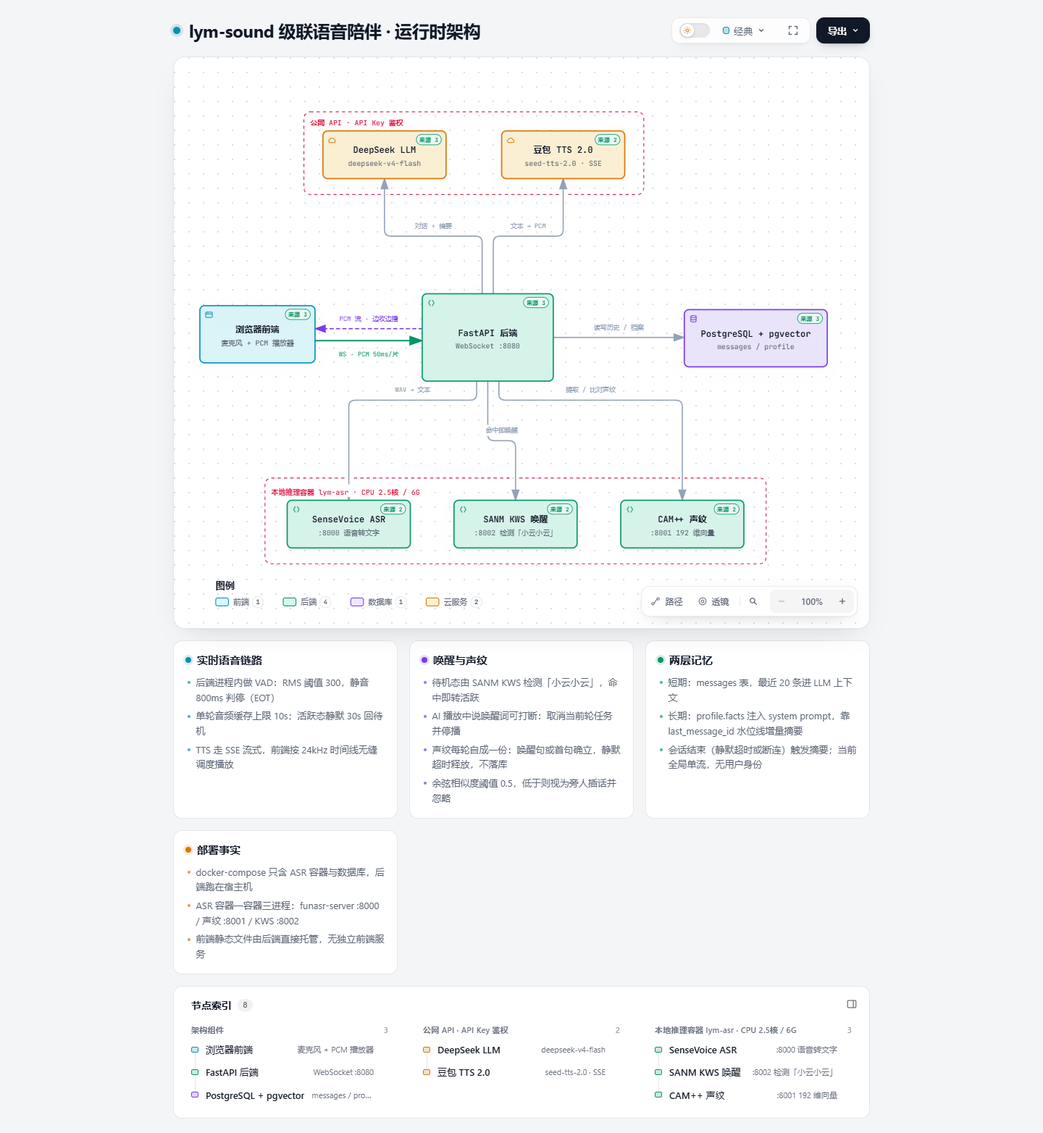
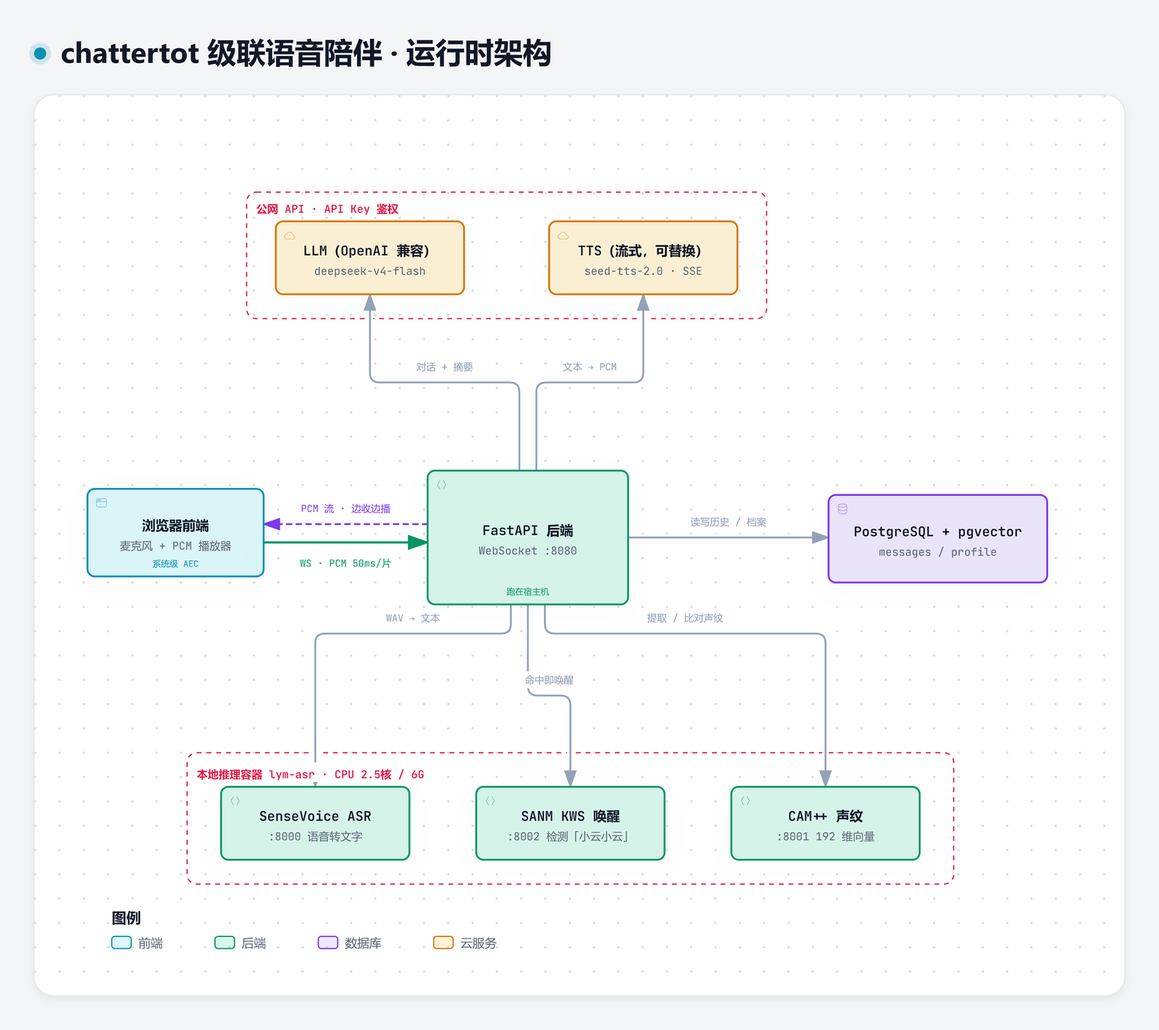
docs: regenerate architecture diagram for the rename
Regenerated from the source JSON against this repository's first commit:
- Title now reads "chattertot", not the old project name
- Cloud component labels reflect that both are replaceable:
  "LLM (OpenAI-compatible)" and "TTS (streaming, swappable)"
- Source-evidence links now point at this repo, so "click a node to see the
  source" resolves instead of 404ing

All four archify gates pass (validate / deliver / check / browser-check).

diff --git a/docs/architecture/chattertot-architecture.html b/docs/architecture/chattertot-architecture.html
@@ -4982,7 +4982,7 @@ OTHER DEALINGS IN THE FONT SOFTWARE.
       </div>
     </div>
 
-    <script id="archify-source-evidence-data" type="application/json">{"schemaVersion":1,"verified":true,"repository":{"url":"https://github.com/wind4001/chattertot","revision":"af71dbb8778e04d860a536311a2e3ecf7a58cd83","shortRevision":"af71dbb","label":"wind4001/chattertot","href":"https://github.com/wind4001/chattertot/tree/af71dbb8778e04d860a536311a2e3ecf7a58cd83"},"referenceCount":20,"nodes":{"browser":[{"path":"cascade/backend/static/app.js","line":5,"endLine":57,"label":"PcmPlayer","href":"https://github.com/wind4001/chattertot/blob/af71dbb8778e04d860a536311a2e3ecf7a58cd83/cascade/backend/static/app.js#L5-L57"},{"path":"cascade/backend/static/app.js","line":123,"endLine":132,"label":"采音 + AEC","href":"https://github.com/wind4001/chattertot/blob/af71dbb8778e04d860a536311a2e3ecf7a58cd83/cascade/backend/static/app.js#L123-L132"},{"path":"cascade/backend/static/app.js","line":75,"label":"WS 连接","href":"https://github.com/wind4001/chattertot/blob/af71dbb8778e04d860a536311a2e3ecf7a58cd83/cascade/backend/static/app.js#L75"}],"backend":[{"path":"cascade/backend/app.py","line":173,"endLine":176,"label":"WS 端点","href":"https://github.com/wind4001/chattertot/blob/af71dbb8778e04d860a536311a2e3ecf7a58cd83/cascade/backend/app.py#L173-L176"},{"path":"cascade/backend/app.py","line":407,"endLine":433,"label":"VAD / 判停主循环","href":"https://github.com/wind4001/chattertot/blob/af71dbb8778e04d860a536311a2e3ecf7a58cd83/cascade/backend/app.py#L407-L433"},{"path":"cascade/backend/app.py","line":449,"label":"监听端口","href":"https://github.com/wind4001/chattertot/blob/af71dbb8778e04d860a536311a2e3ecf7a58cd83/cascade/backend/app.py#L449"}],"pg":[{"path":"cascade/db/init.sql","line":9,"label":"messages 表","href":"https://github.com/wind4001/chattertot/blob/af71dbb8778e04d860a536311a2e3ecf7a58cd83/cascade/db/init.sql#L9"},{"path":"cascade/db/init.sql","line":24,"label":"profile 表","href":"https://github.com/wind4001/chattertot/blob/af71dbb8778e04d860a536311a2e3ecf7a58cd83/cascade/db/init.sql#L24"},{"path":"cascade/backend/db.py","line":9,"label":"连接串","href":"https://github.com/wind4001/chattertot/blob/af71dbb8778e04d860a536311a2e3ecf7a58cd83/cascade/backend/db.py#L9"}],"llm":[{"path":"cascade/backend/llm.py","line":9,"endLine":11,"label":"配置","href":"https://github.com/wind4001/chattertot/blob/af71dbb8778e04d860a536311a2e3ecf7a58cd83/cascade/backend/llm.py#L9-L11"},{"path":"cascade/backend/llm.py","line":23,"label":"对话","href":"https://github.com/wind4001/chattertot/blob/af71dbb8778e04d860a536311a2e3ecf7a58cd83/cascade/backend/llm.py#L23"},{"path":"cascade/backend/llm.py","line":71,"label":"记忆摘要","href":"https://github.com/wind4001/chattertot/blob/af71dbb8778e04d860a536311a2e3ecf7a58cd83/cascade/backend/llm.py#L71"}],"tts":[{"path":"cascade/backend/tts.py","line":13,"label":"SSE 端点","href":"https://github.com/wind4001/chattertot/blob/af71dbb8778e04d860a536311a2e3ecf7a58cd83/cascade/backend/tts.py#L13"},{"path":"cascade/backend/tts.py","line":63,"label":"流式合成","href":"https://github.com/wind4001/chattertot/blob/af71dbb8778e04d860a536311a2e3ecf7a58cd83/cascade/backend/tts.py#L63"}],"asr":[{"path":"cascade/backend/app.py","line":24,"label":"调用地址","href":"https://github.com/wind4001/chattertot/blob/af71dbb8778e04d860a536311a2e3ecf7a58cd83/cascade/backend/app.py#L24"},{"path":"cascade/asr/start.sh","line":6,"label":"funasr-server","href":"https://github.com/wind4001/chattertot/blob/af71dbb8778e04d860a536311a2e3ecf7a58cd83/cascade/asr/start.sh#L6"}],"kws":[{"path":"cascade/backend/app.py","line":80,"label":"调用地址","href":"https://github.com/wind4001/chattertot/blob/af71dbb8778e04d860a536311a2e3ecf7a58cd83/cascade/backend/app.py#L80"},{"path":"cascade/asr/kws_api.py","line":11,"endLine":12,"label":"模型与关键词","href":"https://github.com/wind4001/chattertot/blob/af71dbb8778e04d860a536311a2e3ecf7a58cd83/cascade/asr/kws_api.py#L11-L12"}],"speaker":[{"path":"cascade/backend/app.py","line":50,"label":"调用地址","href":"https://github.com/wind4001/chattertot/blob/af71dbb8778e04d860a536311a2e3ecf7a58cd83/cascade/backend/app.py#L50"},{"path":"cascade/asr/speaker_api.py","line":8,"label":"CAM++ 模型","href":"https://github.com/wind4001/chattertot/blob/af71dbb8778e04d860a536311a2e3ecf7a58cd83/cascade/asr/speaker_api.py#L8"}]}}</script>
+    <script id="archify-source-evidence-data" type="application/json">{"schemaVersion":1,"verified":true,"repository":{"url":"https://github.com/wind4001/chattertot","revision":"094c6af2946647fc590a70a808ababc00eedf09b","shortRevision":"094c6af","label":"wind4001/chattertot","href":"https://github.com/wind4001/chattertot/tree/094c6af2946647fc590a70a808ababc00eedf09b"},"referenceCount":20,"nodes":{"browser":[{"path":"cascade/backend/static/app.js","line":5,"endLine":57,"label":"PcmPlayer","href":"https://github.com/wind4001/chattertot/blob/094c6af2946647fc590a70a808ababc00eedf09b/cascade/backend/static/app.js#L5-L57"},{"path":"cascade/backend/static/app.js","line":123,"endLine":132,"label":"采音 + AEC","href":"https://github.com/wind4001/chattertot/blob/094c6af2946647fc590a70a808ababc00eedf09b/cascade/backend/static/app.js#L123-L132"},{"path":"cascade/backend/static/app.js","line":75,"label":"WS 连接","href":"https://github.com/wind4001/chattertot/blob/094c6af2946647fc590a70a808ababc00eedf09b/cascade/backend/static/app.js#L75"}],"backend":[{"path":"cascade/backend/app.py","line":173,"endLine":176,"label":"WS 端点","href":"https://github.com/wind4001/chattertot/blob/094c6af2946647fc590a70a808ababc00eedf09b/cascade/backend/app.py#L173-L176"},{"path":"cascade/backend/app.py","line":407,"endLine":433,"label":"VAD / 判停主循环","href":"https://github.com/wind4001/chattertot/blob/094c6af2946647fc590a70a808ababc00eedf09b/cascade/backend/app.py#L407-L433"},{"path":"cascade/backend/app.py","line":449,"label":"监听端口","href":"https://github.com/wind4001/chattertot/blob/094c6af2946647fc590a70a808ababc00eedf09b/cascade/backend/app.py#L449"}],"pg":[{"path":"cascade/db/init.sql","line":9,"label":"messages 表","href":"https://github.com/wind4001/chattertot/blob/094c6af2946647fc590a70a808ababc00eedf09b/cascade/db/init.sql#L9"},{"path":"cascade/db/init.sql","line":24,"label":"profile 表","href":"https://github.com/wind4001/chattertot/blob/094c6af2946647fc590a70a808ababc00eedf09b/cascade/db/init.sql#L24"},{"path":"cascade/backend/db.py","line":9,"label":"连接串","href":"https://github.com/wind4001/chattertot/blob/094c6af2946647fc590a70a808ababc00eedf09b/cascade/backend/db.py#L9"}],"llm":[{"path":"cascade/backend/llm.py","line":9,"endLine":11,"label":"配置","href":"https://github.com/wind4001/chattertot/blob/094c6af2946647fc590a70a808ababc00eedf09b/cascade/backend/llm.py#L9-L11"},{"path":"cascade/backend/llm.py","line":23,"label":"对话","href":"https://github.com/wind4001/chattertot/blob/094c6af2946647fc590a70a808ababc00eedf09b/cascade/backend/llm.py#L23"},{"path":"cascade/backend/llm.py","line":71,"label":"记忆摘要","href":"https://github.com/wind4001/chattertot/blob/094c6af2946647fc590a70a808ababc00eedf09b/cascade/backend/llm.py#L71"}],"tts":[{"path":"cascade/backend/tts.py","line":13,"label":"SSE 端点","href":"https://github.com/wind4001/chattertot/blob/094c6af2946647fc590a70a808ababc00eedf09b/cascade/backend/tts.py#L13"},{"path":"cascade/backend/tts.py","line":63,"label":"流式合成","href":"https://github.com/wind4001/chattertot/blob/094c6af2946647fc590a70a808ababc00eedf09b/cascade/backend/tts.py#L63"}],"asr":[{"path":"cascade/backend/app.py","line":24,"label":"调用地址","href":"https://github.com/wind4001/chattertot/blob/094c6af2946647fc590a70a808ababc00eedf09b/cascade/backend/app.py#L24"},{"path":"cascade/asr/start.sh","line":6,"label":"funasr-server","href":"https://github.com/wind4001/chattertot/blob/094c6af2946647fc590a70a808ababc00eedf09b/cascade/asr/start.sh#L6"}],"kws":[{"path":"cascade/backend/app.py","line":80,"label":"调用地址","href":"https://github.com/wind4001/chattertot/blob/094c6af2946647fc590a70a808ababc00eedf09b/cascade/backend/app.py#L80"},{"path":"cascade/asr/kws_api.py","line":11,"endLine":12,"label":"模型与关键词","href":"https://github.com/wind4001/chattertot/blob/094c6af2946647fc590a70a808ababc00eedf09b/cascade/asr/kws_api.py#L11-L12"}],"speaker":[{"path":"cascade/backend/app.py","line":50,"label":"调用地址","href":"https://github.com/wind4001/chattertot/blob/094c6af2946647fc590a70a808ababc00eedf09b/cascade/backend/app.py#L50"},{"path":"cascade/asr/speaker_api.py","line":8,"label":"CAM++ 模型","href":"https://github.com/wind4001/chattertot/blob/094c6af2946647fc590a70a808ababc00eedf09b/cascade/asr/speaker_api.py#L8"}]}}</script>
     <script id="archify-i18n-data" type="application/json">{"locale":"zh-CN","messages":{"viewer.kind.frontend":"前端","viewer.kind.backend":"后端","viewer.kind.database":"数据库","viewer.kind.cloud":"云服务","viewer.kind.security":"安全","viewer.kind.messagebus":"消息总线","viewer.kind.external":"外部系统","viewer.kind.neutral":"中性","viewer.kind.node":"节点","viewer.kind.start":"开始","viewer.kind.active":"活动","viewer.kind.waiting":"等待","viewer.kind.decision":"决策","viewer.kind.success":"成功","viewer.kind.failure":"失败","viewer.toolbar.actions":"图表操作","viewer.theme.toggle.title":"切换主题（T）","viewer.theme.toggle":"切换颜色主题","viewer.theme.dark":"深色","viewer.theme.light":"浅色","viewer.preset.choose.title":"选择视觉风格（S 循环切换）","viewer.preset.choose":"选择视觉风格","viewer.preset.style":"风格","viewer.preset.menu":"视觉风格","viewer.preset.identity":"视觉表达","viewer.preset.cycles":"循环切换","viewer.preset.classic":"经典","viewer.preset.classic.short":"经典","viewer.preset.classic.hint":"稳定的技术默认风格","viewer.preset.flow":"信号流","viewer.preset.flow.short":"流动","viewer.preset.flow.hint":"突出动态流向","viewer.preset.blueprint":"蓝图","viewer.preset.blueprint.hint":"工程评审","viewer.preset.editorial":"编辑风格","viewer.preset.editorial.hint":"适合发布与上线说明","viewer.preset.badge.signalFlow":"信号流","viewer.preset.badge.blueprint":"蓝图 / 修订 01","viewer.preset.badge.editorial":"编辑风格 / 现场笔记","viewer.preset.badge.editorialPlate":"ARCHIFY / 图版 04","viewer.preset.current":"当前视觉风格：{style}。选择视觉风格","viewer.motion.live":"动态","viewer.motion.still":"静态","viewer.motion.pause":"暂停动效","viewer.motion.resume":"恢复动效","viewer.motion.reduced":"已根据减少动态效果偏好暂停动效","viewer.motion.hidden":"页面不可见时已暂停动效","viewer.motion.yielding":"暂停动效；当前让位于{owner}","viewer.motion.yielding.title":"动态预览已启用 · 正在让位于{owner}","viewer.owner.route":"路径探测","viewer.owner.lens":"语义透镜","viewer.owner.relationship":"关系预览","viewer.owner.intent":"意图追踪","viewer.owner.focus":"语义聚焦","viewer.owner.legend":"图例预览","viewer.owner.reader":"读者交互","viewer.present.enter":"进入演示模式","viewer.present.enter.title":"演示模式（F）","viewer.present.exit":"退出演示模式","viewer.present.exit.title":"退出演示模式（F 或 Escape）","viewer.present.present":"演示","viewer.present.exit.label":"退出","viewer.export.button":"导出","viewer.export.button.title":"导出图表（E）","viewer.export.diagram":"导出图表","viewer.export.menu":"导出","viewer.export.subtitle":"便携、整洁的输出","viewer.export.share":"分享","viewer.export.shareCard":"分享卡片","viewer.export.routeShareCard":"路径分享卡片","viewer.export.reachShareCard":"可达范围分享卡片","viewer.export.copyDiagram":"复制图表","viewer.export.clipboardPng":"复制 PNG 到剪贴板","viewer.export.raster":"位图","viewer.export.image":"图像","viewer.export.lossless":"无损图像","viewer.export.compact":"紧凑图像","viewer.export.modern":"现代图像格式","viewer.export.vectorMotion":"矢量与动效","viewer.export.vectorMotion.heading":"矢量与动效","viewer.export.editable":"可编辑矢量图","viewer.export.svg.auto":"SVG · 自动","viewer.export.svg.auto.hint":"匹配宿主主题","viewer.export.svg.light":"SVG · 浅色","viewer.export.svg.light.hint":"始终浅色","viewer.export.svg.dark":"SVG · 深色","viewer.export.svg.dark.hint":"始终深色","viewer.export.motion6s":"6 秒动效","viewer.export.unsupported":"当前浏览器不支持","viewer.export.clipboardUnsupported":"当前浏览器不支持写入图片剪贴板","viewer.export.clipboardUnsupported.short":"此浏览器不支持写入图片剪贴板。","viewer.export.motionUnavailable":"当前浏览器无法录制动效","viewer.export.webmUnavailable":"当前浏览器不支持 WebM","viewer.export.failed":"导出失败：{message}","viewer.export.unknownVariant":"未知的分享卡片类型：{variant}","viewer.export.routeRequired":"请先追踪路径，再导出路径分享卡片","viewer.export.reachRequired":"请先追踪编写可达范围，再导出可达范围分享卡片","viewer.export.unknown":"未知错误","viewer.export.routeFailed":"路径分享卡片导出失败：{message}","viewer.export.reachFailed":"可达范围分享卡片导出失败：{message}","viewer.export.copyFailed":"复制失败：{message}","viewer.export.copiedPng":"已将 PNG 复制到剪贴板","viewer.export.downloadedRoute":"已下载路径分享卡片","viewer.export.downloadedReach":"已下载可达范围分享卡片","viewer.export.downloadedWebm":"已下载 WebM","viewer.export.recording":"正在录制 6 秒动效…","viewer.export.card.routeSummary.one":"路径：{source} → {target} · {count} 步","viewer.export.card.routeSummary.other":"路径：{source} → {target} · {count} 步","viewer.export.card.reachSummary":"从{origin}开始的编写{direction} · {nodes} · {links} · 最深 {hops}","viewer.export.card.node.one":"{count} 个节点","viewer.export.card.node.other":"{count} 个节点","viewer.export.card.link.one":"{count} 条连接","viewer.export.card.link.other":"{count} 条连接","viewer.export.card.hop.one":"{count} 跳","viewer.export.card.hop.other":"{count} 跳","viewer.export.card.routeBadge":"ARCHIFY · 路径 · {hops}","viewer.export.card.reachBadge":"ARCHIFY · {direction}可达范围","viewer.export.direction.upstream":"上游","viewer.export.direction.downstream":"下游","viewer.export.error.canvasUnavailable":"无法为{label}使用画布","viewer.export.error.contextUnavailable":"无法为{label}创建二维画布上下文","viewer.export.error.toBlobUnavailable":"{label}无法使用 canvas.toBlob","viewer.export.error.toBlobNull":"{label}的 canvas.toBlob 未返回数据","viewer.export.error.variantsCombined":"无法同时组合多种分享卡片类型","viewer.export.error.viewerState":"分享卡片导出无法移除临时 Viewer 状态","viewer.export.error.routeState":"路径卡片导出无法安全保留已解析路径","viewer.export.error.reachState":"可达范围卡片导出无法安全保留编写的可达范围","viewer.export.error.webmRequirements":"WebM 动效导出需要追踪动画及浏览器 MediaRecorder 支持","viewer.export.error.mediaRecorder":"MediaRecorder 录制失败","viewer.export.error.emptyWebm":"MediaRecorder 生成了空的 WebM","viewer.export.error.webmBackground":"无法为 WebM 导出加载 SVG 背景","viewer.guide.title":"探索此系统","viewer.focus.selectedNodes":"已选择 {count} 个节点","viewer.guide.eyebrow":"图表指南","viewer.guide.close":"关闭图表指南","viewer.guide.inspecting":"正在检查已编译语义","viewer.guide.actions":"图表探索操作","viewer.guide.find":"查找任意节点","viewer.guide.find.hint":"搜索标签、职责、类型和稳定 ID。","viewer.guide.route":"追踪路径","viewer.guide.route.aria":"追踪有向路径","viewer.guide.route.hint":"查看两个语义节点如何按编写方向连接。","viewer.guide.map":"查看完整系统","viewer.guide.map.hint":"打开带实时视口和稳定节点的语义雷达。","viewer.guide.lens":"比较语义类型","viewer.guide.lens.hint":"统计角色、显示流量并比较直接编写的连接。","viewer.guide.present":"进入演示模式","viewer.guide.present.hint":"让实时图表占满视口，同时不改变导出。","viewer.guide.shortcuts":"其他键盘快捷键","viewer.guide.shortcut.export":"导出","viewer.guide.shortcut.theme":"主题","viewer.guide.shortcut.style":"风格","viewer.guide.shortcut.reset":"重置","viewer.guide.shortcut.zoomIn":"放大","viewer.guide.shortcut.zoomOut":"缩小","viewer.guide.shortcut.close":"关闭","viewer.guide.facts":"{nodes} · {relationships}","viewer.guide.fact.node.one":"{count} 个语义节点","viewer.guide.fact.node.other":"{count} 个语义节点","viewer.guide.fact.relationship.one":"{count} 条关系","viewer.guide.fact.relationship.other":"{count} 条关系","viewer.guide.open":"打开图表指南","viewer.finder.title":"查找节点","viewer.finder.close":"关闭节点查找器","viewer.finder.placeholder":"搜索标签或 ID","viewer.finder.search":"搜索图表节点","viewer.finder.results":"图表节点","viewer.finder.empty":"没有匹配的节点","viewer.finder.result.focus":"聚焦{label}","viewer.finder.result.routeStart":"选择{label}作为路径起点","viewer.finder.result.routeTarget":"选择{label}作为路径终点，{links}","viewer.finder.status.empty":"没有匹配的节点","viewer.finder.status.count.one":"{count} 个匹配节点","viewer.finder.status.count.other":"{count} 个匹配节点","viewer.finder.noun.nodes":"个节点","viewer.finder.link.one":"{count} 条连接","viewer.finder.link.other":"{count} 条连接","viewer.finder.result.focus.one":"聚焦{label}，{count} 条相关连接","viewer.finder.result.focus.other":"聚焦{label}，{count} 条相关连接","viewer.finder.status.filtered":"{visible}/{available} {noun}","viewer.finder.status.all":"{available} {noun}","viewer.passport.eyebrow":"语义护照","viewer.passport.metadata":"节点元数据","viewer.passport.evidence":"已验证的源代码证据","viewer.passport.verified":"已验证来源","viewer.passport.verificationScope":"已按固定修订版本验证本地 Git 证据，未检查远程访问权限。","viewer.passport.reach":"编写可达范围","viewer.passport.reach.trace":"追踪编写的可达性","viewer.passport.upstream":"上游","viewer.passport.downstream":"下游","viewer.passport.upstream.trace":"追踪上游编写可达性","viewer.passport.downstream.trace":"追踪下游编写可达性","viewer.passport.close":"关闭语义护照","viewer.passport.move":"移动语义护照。可拖动、使用方向键移动，或按 Home 恢复自动位置。","viewer.passport.copy":"复制链接","viewer.passport.copy.focus":"复制聚焦节点的链接","viewer.passport.relations":"关系","viewer.passport.relations.show":"显示关联关系","viewer.passport.relations.hide":"隐藏关联关系","viewer.passport.relations.list":"关联关系","viewer.passport.copyRelation":"复制关系","viewer.passport.copyNode":"复制节点","viewer.passport.copyPinned":"复制固定关系的链接","viewer.passport.copySource":"复制来源节点的链接","viewer.passport.copy.focused.success":"已复制聚焦节点链接","viewer.passport.copy.pinned.success":"已复制固定关系链接","viewer.passport.copy.focused.failed":"无法复制聚焦节点链接","viewer.passport.copy.pinned.failed":"无法复制固定关系链接","viewer.passport.relationship.none":"没有关联关系","viewer.passport.relationship.count.one":"{count} 条关系","viewer.passport.relationship.count.other":"{count} 条关系","viewer.passport.relationship.show.one":"显示 {count} 条关联关系","viewer.passport.relationship.show.other":"显示 {count} 条关联关系","viewer.passport.relationship.summary":"{out} 条出向 · {in} 条入向{loops}","viewer.passport.relationship.loops":" · {count} 条自环","viewer.passport.relationship.explorer":"直接关系浏览器","viewer.passport.relationship.help":"使用方向键浏览关系。按 Enter 或空格键固定详情；按 Escape 清除。","viewer.passport.relationship.loopsBack":"回环","viewer.passport.relationship.connectsTo":"连接到","viewer.passport.relationship.connectsFrom":"连接自","viewer.passport.relationship.pinned":"已固定关系 · {from} → {to} · {label}","viewer.passport.relationship.inspect":"检查第 {index}/{total} 条关系：{from} 到 {to}，{label}。按 Enter 查看详情。","viewer.passport.relationship.group.out":"出向","viewer.passport.relationship.group.in":"入向","viewer.passport.relationship.group.loop":"自环","viewer.passport.relationship.row":"{group}：{relationship}，{neighbor}","viewer.passport.relationship.direction.out":"出 →","viewer.passport.relationship.direction.in":"← 入","viewer.passport.relationship.direction.loop":"自环","viewer.passport.sourceCount.one":"{count} 个已验证来源引用","viewer.passport.sourceCount.other":"{count} 个已验证来源引用","viewer.passport.sourceMarker":"来源","viewer.passport.beacon.one":"{count} 个已验证来源；聚焦此节点以检查","viewer.passport.beacon.other":"{count} 个已验证来源；聚焦此节点以检查","viewer.passport.repository.open":"打开已验证的仓库修订版本 {revision}","viewer.passport.source.open":"打开修订版本 {revision} 中已验证的来源 {path}","viewer.passport.source.openLink":"打开 ↗","viewer.passport.reach.upstream.one":"追踪 {count} 个上游编写节点","viewer.passport.reach.upstream.other":"追踪 {count} 个上游编写节点","viewer.passport.reach.downstream.one":"追踪 {count} 个下游编写节点","viewer.passport.reach.downstream.other":"追踪 {count} 个下游编写节点","viewer.passport.reach.noUpstream":"没有上游编写节点","viewer.passport.reach.noDownstream":"没有下游编写节点","viewer.passport.reach.status":"{direction} · {nodes} 个节点 · {links} 条连接 · 最深 {hops} 跳","viewer.route.eyebrow":"路径","viewer.route.start":"点击路径的起点","viewer.route.start.find":"查找起点","viewer.route.start.find.aria":"查找路径起点","viewer.route.copy":"复制链接","viewer.route.copy.aria":"复制已追踪路径的链接","viewer.route.clear":"清除","viewer.route.clear.aria":"清除路径探测","viewer.route.traced":"路径","viewer.route.pickTwo":"在图上点两个节点","viewer.route.pickOne":"在图上点一个节点","viewer.route.controls":"路径旅程控制","viewer.route.previous":"上一个路径位置","viewer.route.play":"播放路径旅程","viewer.route.pause":"暂停路径旅程","viewer.route.replay":"重播路径旅程","viewer.route.next":"下一个路径位置","viewer.route.journey":"旅程","viewer.route.pause.label":"暂停","viewer.route.replay.label":"重播","viewer.route.overview":"总览","viewer.route.overview.aria":"显示完整路径总览","viewer.route.instructions":"先点起点，再点终点，沿箭头方向找路。","viewer.route.destination":"从{label}出发，走到哪里？","viewer.route.destination.find":"查找目标","viewer.route.destination.find.aria":"查找可达的路径目标","viewer.route.differentDestination":"选择其他目标","viewer.route.distinct":"请选两个不同的节点。","viewer.route.unreachable":"走不到{label}","viewer.route.unreachable.detail":"沿箭头方向，从{source}走不到{target}。请选一个高亮节点。","viewer.route.start.instructions":"接着选终点，能走到的节点会亮起。","viewer.route.copy.success":"已复制路径链接","viewer.route.copy.failed":"无法复制路径链接","viewer.route.position":"路径位置 {index}/{total}：{label}","viewer.route.step":"第 {index}/{total} 步 · {phase} · {label}","viewer.route.motionRequired":"自动旅程需要动态模式","viewer.route.trigger.clear":"清除已追踪路径","viewer.route.overview.status":"{nodes} · {hops} · 最短路径","viewer.route.overview.node.one":"{count} 个节点","viewer.route.overview.node.other":"{count} 个节点","viewer.route.overview.hop.one":"{count} 步","viewer.route.overview.hop.other":"{count} 步","viewer.route.phase.playing":"播放中","viewer.route.phase.complete":"已完成","viewer.route.phase.inspecting":"检查中","viewer.route.destination.count.one":"有 {count} 个能走到的节点已高亮，点一下。","viewer.route.destination.count.other":"有 {count} 个能走到的节点已高亮，点一个。","viewer.route.noOutgoing":"这个节点没有向外的箭头。清除后换一个起点。","viewer.route.result.title":"{source} 到 {target}","viewer.route.finder.source.title":"选择路径起点","viewer.route.finder.source.placeholder":"搜索路径来源","viewer.route.finder.source.empty":"没有匹配的路径来源","viewer.route.finder.source.results":"可作为路径起点的节点","viewer.route.finder.source.noun":"个路径来源","viewer.route.finder.source.badge":"起点","viewer.route.finder.target.title":"从{label}出发的目标","viewer.route.finder.target.placeholder":"搜索可达目标","viewer.route.finder.target.empty":"没有匹配的可达目标","viewer.route.finder.target.results":"可达路径目标","viewer.route.finder.target.noun":"个可达目标","viewer.route.hop.one":"{count} 跳","viewer.route.hop.other":"{count} 跳","viewer.lens.eyebrow":"语义透镜","viewer.lens.title":"比较系统角色","viewer.lens.close":"关闭语义透镜","viewer.lens.instruction":"最多选择两种语义类型。选择一种可显示其真实流量；选择两种只比较直接编写的关系。","viewer.lens.kinds":"语义类型","viewer.lens.choose":"选择一种类型以检查其节点和相连关系。","viewer.lens.copy":"复制语义透镜链接","viewer.lens.clear":"清除语义透镜","viewer.lens.open":"打开语义透镜","viewer.lens.openActive":"打开当前语义透镜","viewer.lens.legend":"语义图例","viewer.lens.legend.inspect.one":"检查{label}，{count} 个节点","viewer.lens.legend.inspect.other":"检查{label}，{count} 个节点","viewer.lens.kind.count.one":"{label}，{count} 个节点","viewer.lens.kind.count.other":"{label}，{count} 个节点","viewer.lens.compare.one":"{first} → {second}：{forward} · {second} → {first}：{reverse} · 共 {count} 条直接关系","viewer.lens.compare.other":"{first} → {second}：{forward} · {second} → {first}：{reverse} · 共 {count} 条直接关系","viewer.lens.single":"{nodes} · {relationships} · 已连接节点保持可见","viewer.lens.node.one":"{count} 个{label}节点","viewer.lens.node.other":"{count} 个{label}节点","viewer.lens.relationship.one":"{count} 条相连关系","viewer.lens.relationship.other":"{count} 条相连关系","viewer.radar.title":"语义雷达","viewer.radar.building":"正在构建总览","viewer.radar.openFull":"打开完整语义雷达","viewer.radar.open":"打开雷达","viewer.radar.close":"关闭语义雷达","viewer.radar.surface":"图表总览。点击节点进行聚焦，或使用方向键平移。","viewer.radar.click":"点击节点","viewer.radar.drag":"拖动平移","viewer.radar.space":"语义雷达需要更多地图可见空间。","viewer.radar.nodes":"语义图表雷达节点","viewer.radar.focus":"从语义雷达聚焦{label}","viewer.radar.status":"{count} 个节点 · {viewport}","viewer.radar.fullMap":"{count} 个节点 · 完整地图","viewer.radar.compacted":"已收紧雷达，避免遮挡语义护照或地图控件。","viewer.radar.cancelWaiting":"取消等待更多地图空间的语义雷达","viewer.radar.needsSpace":"语义雷达需要更多可见地图空间","viewer.radar.viewport.full":"完整地图","viewer.radar.viewport.width":"宽度 {percent}%","viewer.radar.viewport.scale":"视口 {percent}%","viewer.nav.controls":"图表视图控制","viewer.nav.route":"追踪有向路径","viewer.nav.route.title":"追踪路径（R）","viewer.nav.route.short":"路径","viewer.nav.radar":"打开语义雷达","viewer.nav.radar.title":"语义雷达（M）","viewer.nav.radar.short":"地图","viewer.nav.lens":"打开语义透镜","viewer.nav.lens.title":"语义透镜（L）","viewer.nav.lens.short":"透镜","viewer.nav.find":"查找节点","viewer.nav.find.title":"查找节点（/）","viewer.outline.title":"节点索引","viewer.rail.show":"要点与索引","viewer.rail.controls":"侧栏","viewer.rail.collapse":"收起侧栏","viewer.rail.bottom":"移到图下方","viewer.rail.right":"移到图右侧","viewer.nav.guide":"打开图表指南","viewer.nav.guide.title":"图表指南（?）","viewer.nav.zoomOut":"缩小","viewer.nav.zoomOut.title":"缩小（-）","viewer.nav.reset":"重置图表视图","viewer.nav.reset.title":"重置视图（0）","viewer.nav.read":"阅读","viewer.nav.zoomIn":"放大","viewer.nav.zoomIn.title":"放大（+）","viewer.nav.camera":"{hint}。重置图表视图","viewer.nav.camera.title":"{semantic}{hint} · 重置视图（0）","viewer.nav.camera.semantic":"语义相机已启用 · ","viewer.nav.level.map":"概览","viewer.nav.level.read":"阅读","viewer.nav.level.full":"完整","viewer.nav.level.auto":"自动","viewer.nav.detail.map":"放大以显示关系标签和节点上下文","viewer.nav.detail.read":"再次放大以显示标签和注释","viewer.nav.detail.full":"完整图表详情","viewer.intent.summary":"{label}。{out} 条出向，{in} 条入向{loops}。共 {total} 条连接。按 Enter 查看详情。","viewer.intent.loops":"，{count} 条自环","viewer.common.copied":"已复制","viewer.common.copyFailed":"复制失败","viewer.common.copyLink":"复制链接","viewer.common.clear":"清除","viewer.common.close":"关闭"}}</script>
     <!-- Main Diagram -->
     <div class="diagram-container" data-detail-level="read"
@@ -5091,25 +5091,25 @@ OTHER DEALINGS IN THE FONT SOFTWARE.
         <text data-detail="context" x="720" y="355" class="t-muted" font-size="9" text-anchor="middle">messages / profile</text>
         </g>
 
-        <g id="node-llm" data-node-id="llm" data-node-label="DeepSeek LLM" tabindex="0" role="button" aria-label="聚焦DeepSeek LLM，deepseek-v4-flash, 公网 API · API Key 鉴权" aria-pressed="false" data-node-kind="cloud" data-node-sublabel="deepseek-v4-flash" data-node-context="公网 API · API Key 鉴权">
-          <title>DeepSeek LLM · deepseek-v4-flash · 公网 API · API Key 鉴权</title>
+        <g id="node-llm" data-node-id="llm" data-node-label="LLM（OpenAI 兼容）" tabindex="0" role="button" aria-label="聚焦LLM（OpenAI 兼容），deepseek-v4-flash, 公网 API · API Key 鉴权" aria-pressed="false" data-node-kind="cloud" data-node-sublabel="deepseek-v4-flash" data-node-context="公网 API · API Key 鉴权">
+          <title>LLM（OpenAI 兼容） · deepseek-v4-flash · 公网 API · API Key 鉴权</title>
           <rect x="175" y="80" width="155" height="60" rx="6" class="c-mask"/>
           <rect x="175" y="80" width="155" height="60" rx="6" class="c-cloud" stroke-width="1.5"/>
           <g aria-hidden="true" data-semantic-sigil="cloud" class="semantic-sigil s-cloud" transform="translate(181 86) scale(0.6875)">
             <path d="M4.3 12.5h7.3a2.4 2.4 0 0 0 .2-4.8 4 4 0 0 0-7.5-1.3A3.1 3.1 0 0 0 4.3 12.5Z"/>
           </g>
-          <text data-node-label="" data-detail-anchor="" x="252.5" y="108" class="t-primary" font-size="11" font-weight="600" text-anchor="middle">DeepSeek LLM</text>
+          <text data-node-label="" data-detail-anchor="" x="252.5" y="108" class="t-primary" font-size="11" font-weight="600" text-anchor="middle">LLM（OpenAI 兼容）</text>
         <text data-detail="context" x="252.5" y="124" class="t-muted" font-size="9" text-anchor="middle">deepseek-v4-flash</text>
         </g>
 
-        <g id="node-tts" data-node-id="tts" data-node-label="豆包 TTS 2.0" tabindex="0" role="button" aria-label="聚焦豆包 TTS 2.0，seed-tts-2.0 · SSE, 公网 API · API Key 鉴权" aria-pressed="false" data-node-kind="cloud" data-node-sublabel="seed-tts-2.0 · SSE" data-node-context="公网 API · API Key 鉴权">
-          <title>豆包 TTS 2.0 · seed-tts-2.0 · SSE · 公网 API · API Key 鉴权</title>
+        <g id="node-tts" data-node-id="tts" data-node-label="TTS（流式，可替换）" tabindex="0" role="button" aria-label="聚焦TTS（流式，可替换），seed-tts-2.0 · SSE, 公网 API · API Key 鉴权" aria-pressed="false" data-node-kind="cloud" data-node-sublabel="seed-tts-2.0 · SSE" data-node-context="公网 API · API Key 鉴权">
+          <title>TTS（流式，可替换） · seed-tts-2.0 · SSE · 公网 API · API Key 鉴权</title>
           <rect x="400" y="80" width="155" height="60" rx="6" class="c-mask"/>
           <rect x="400" y="80" width="155" height="60" rx="6" class="c-cloud" stroke-width="1.5"/>
           <g aria-hidden="true" data-semantic-sigil="cloud" class="semantic-sigil s-cloud" transform="translate(406 86) scale(0.6875)">
             <path d="M4.3 12.5h7.3a2.4 2.4 0 0 0 .2-4.8 4 4 0 0 0-7.5-1.3A3.1 3.1 0 0 0 4.3 12.5Z"/>
           </g>
-          <text data-node-label="" data-detail-anchor="" x="477.5" y="108" class="t-primary" font-size="11" font-weight="600" text-anchor="middle">豆包 TTS 2.0</text>
+          <text data-node-label="" data-detail-anchor="" x="477.5" y="108" class="t-primary" font-size="11" font-weight="600" text-anchor="middle">TTS（流式，可替换）</text>
         <text data-detail="context" x="477.5" y="124" class="t-muted" font-size="9" text-anchor="middle">seed-tts-2.0 · SSE</text>
         </g>
 

diff --git a/cascade/benchmark/test_regression.py b/cascade/benchmark/test_regression.py
@@ -2,7 +2,7 @@
 
 需先启动测试服务（8081，lym_test 库）：
   cd cascade/backend
-  DB_URL=postgresql://postgres:lym123456@localhost:5432/lym_test \
+  DB_URL=postgresql://postgres:chattertot_dev_pw@localhost:5432/chattertot_test \
     .venv/Scripts/python.exe -m uvicorn app:app --port 8081 --ws auto
 
 用法：python test_regression.py

diff --git a/docs/语音对话状态机与音频前端.md b/docs/语音对话状态机与音频前端.md
@@ -157,7 +157,7 @@ getUserMedia({ audio: {
 ```bash
 # 启动测试服务（独立库 + 独立端口，不碰生产）
 cd cascade/backend
-DB_URL=postgresql://postgres:lym123456@localhost:5432/lym_test \
+DB_URL=postgresql://postgres:chattertot_dev_pw@localhost:5432/chattertot_test \
   .venv/Scripts/python.exe -m uvicorn app:app --port 8081 --ws auto
 # 另开终端
 cd cascade/benchmark && python test_regression.py
